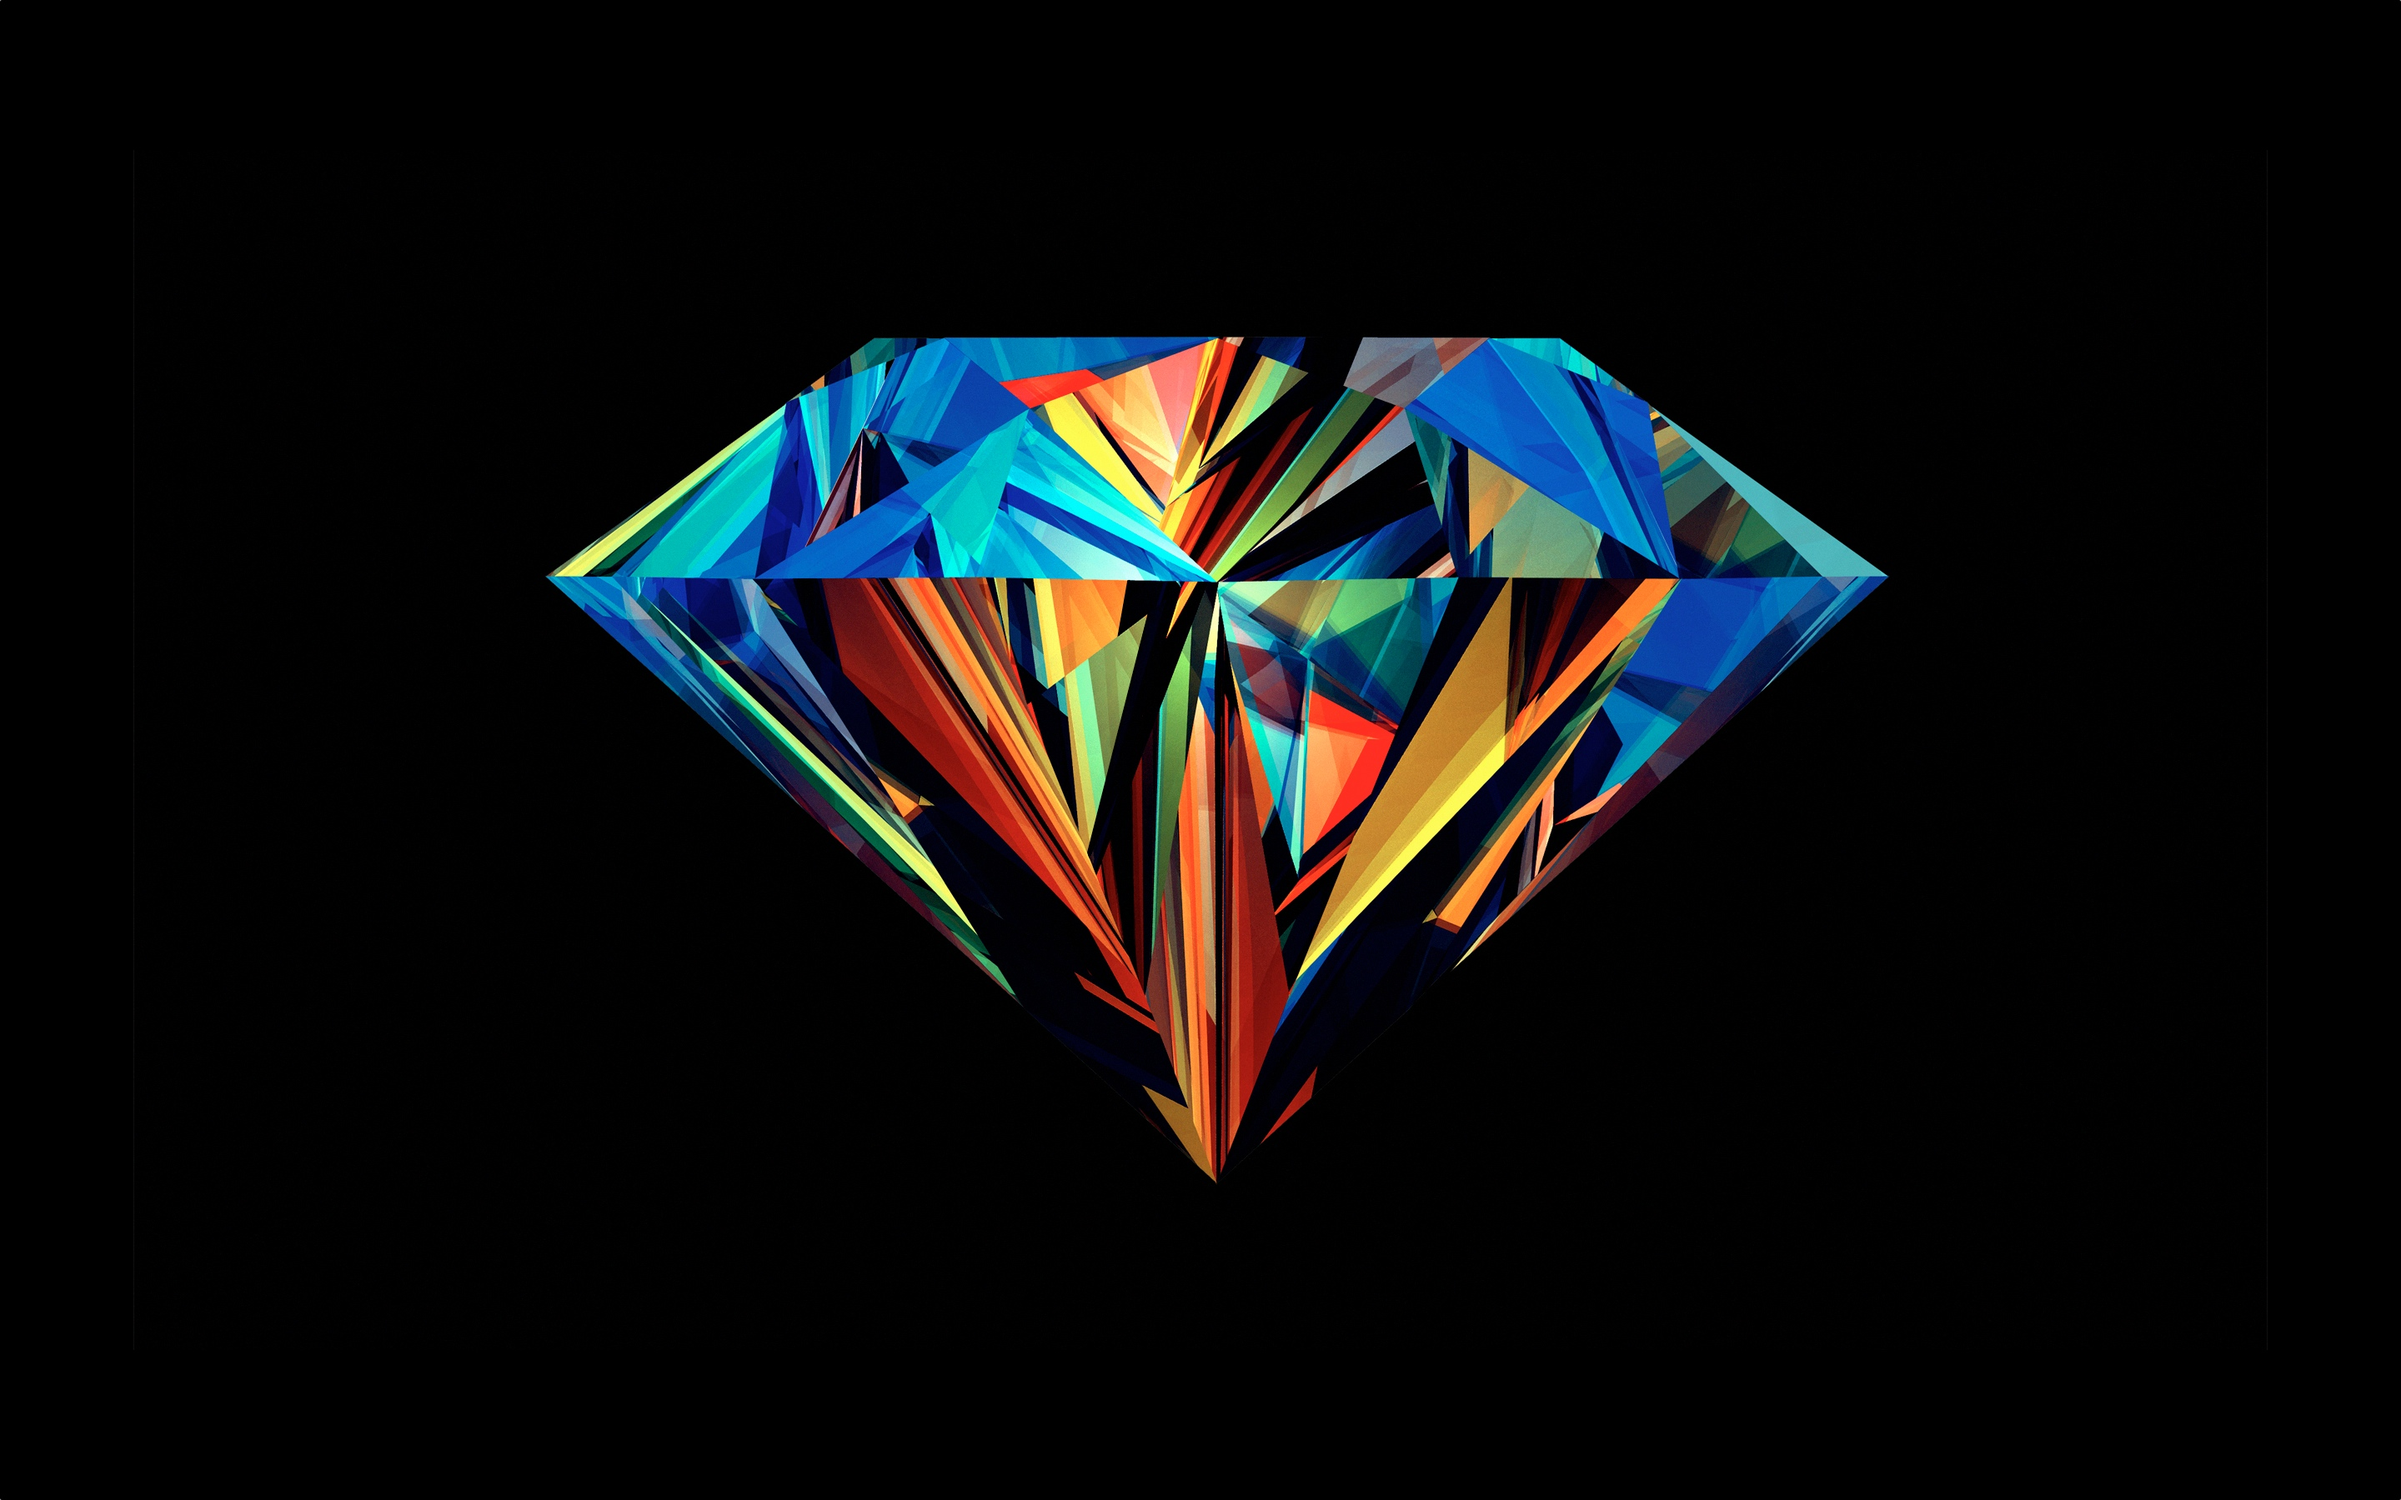
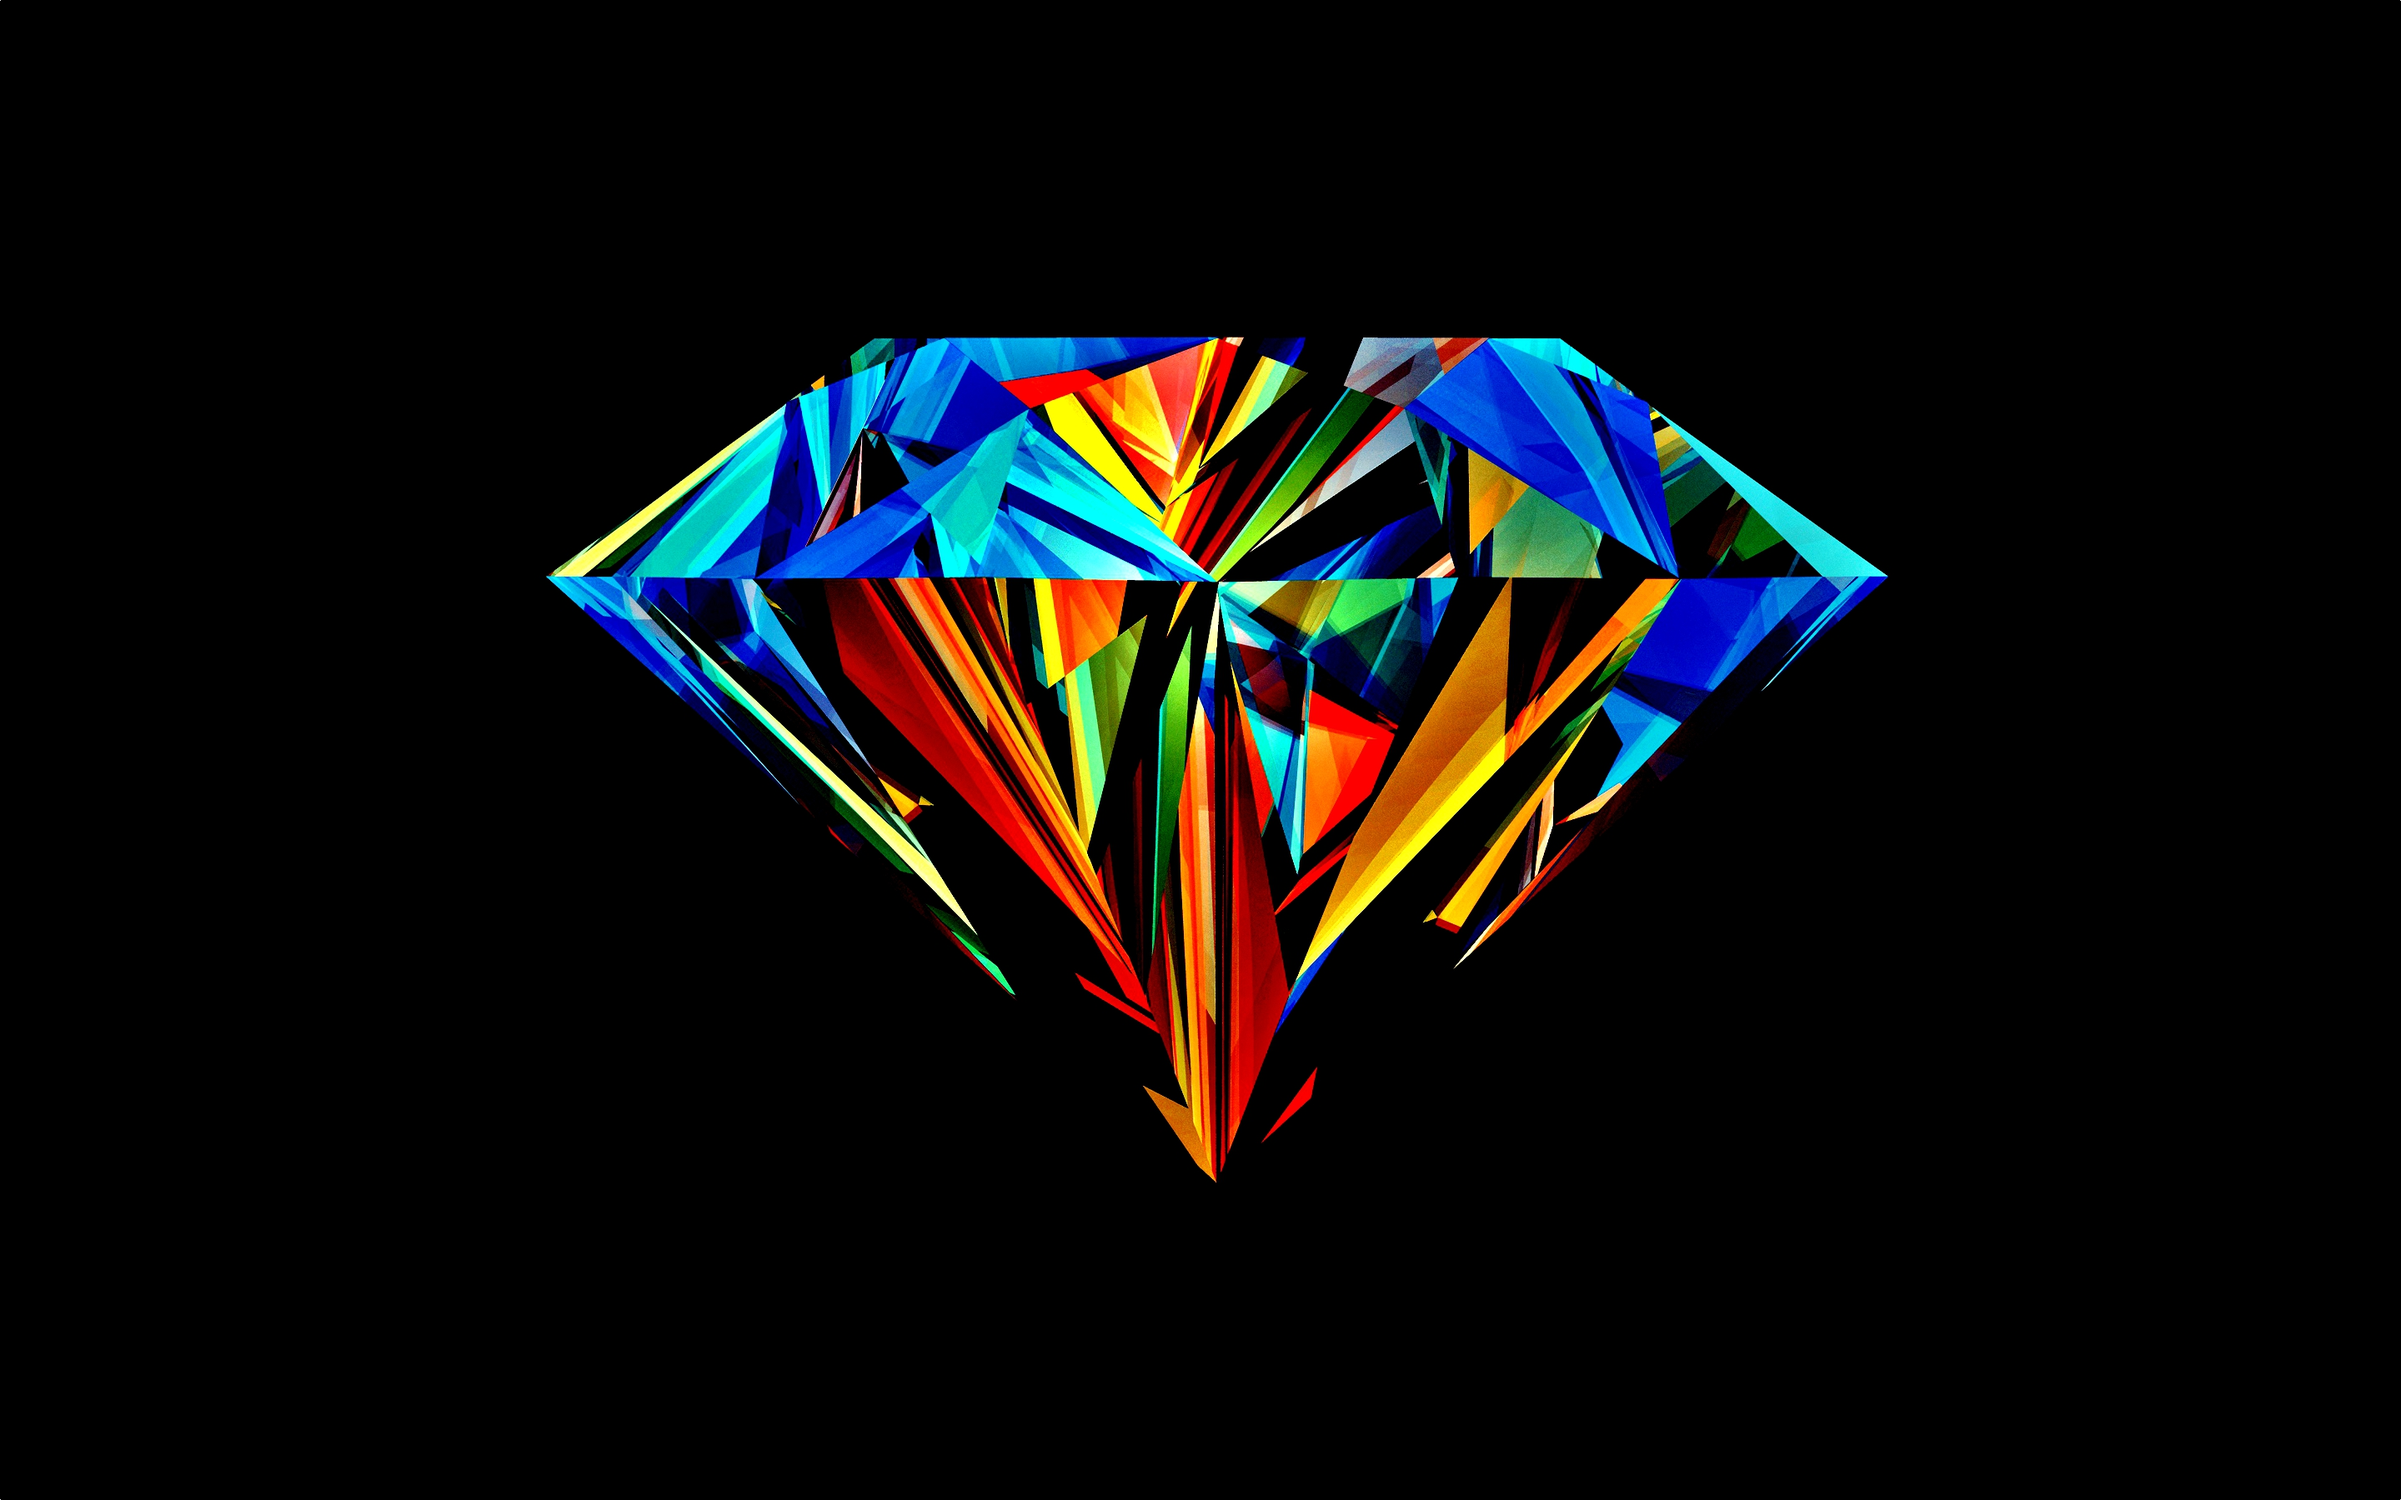
Header pic variation

Changed region(s): [[0.2188, 0.2178, 0.7812, 0.7778]]

diff --git a/myapp/src/App.js b/myapp/src/App.js
@@ -4,6 +4,7 @@ import './App.css';
 // Material-UI dependencies
 import injectTapEventPlugin from 'react-tap-event-plugin';
 import MuiThemeProvider from 'material-ui/styles/MuiThemeProvider';
+import getMuiTheme from 'material-ui/styles/getMuiTheme';
 
 import Header from './components/Header'
 import AppBarMain from './components/AppBarMain'
@@ -14,10 +15,20 @@ import Footer from './components/Footer'
 injectTapEventPlugin(); // http://stackoverflow.com/a/34015469/988941
 
 
+const customTheme = {
+  palette: { 
+    primary1Color: '#4286f4',
+    primary2Color: '#135fdb',
+    primary3Color: '#586e91'
+  }
+};
+
+const theme = getMuiTheme(customTheme);
+
 export default class App extends Component {
   render() {
     return (
-      <MuiThemeProvider>
+      <MuiThemeProvider muiTheme={ theme }>
         <div className="App">
           <div className="App-bar">
             <AppBarMain />

diff --git a/myapp/src/components/Header.js b/myapp/src/components/Header.js
@@ -12,10 +12,12 @@ export default class Header extends Component {
                 // <h2>Header!</h2>
     render() {
         return (
-            <div>
-                <img src='../../header2.jpg' 
-                    className="Header-image" 
-                    alt="background"/>
+            <div className="losange">
+                <div className="los1">
+                    <img src='../../header2.jpg' 
+                        className="Header-image" 
+                        alt="background"/>
+                </div>
                 <h2>Header!</h2>
             </div>
         );

diff --git a/myapp/src/App.css b/myapp/src/App.css
@@ -19,8 +19,12 @@
   background-color: #222;
   height: auto;
   width: 100%;
-  color: red;
+  color: white;
   display: flex;
+}
+
+.Header-image {
+  width: 80%;
 }
 
 .App-body {
@@ -29,10 +33,6 @@
 
 .App-footer {
   font-size: small;
-}
-
-.Header-image {
-  width: 100%;
 }
 
 @keyframes App-logo-spin {
